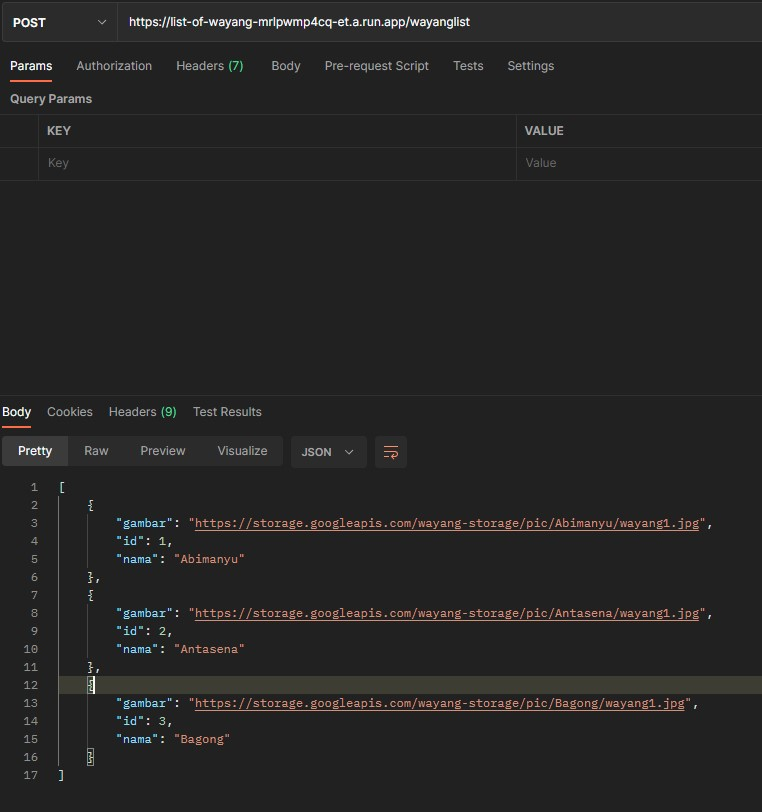
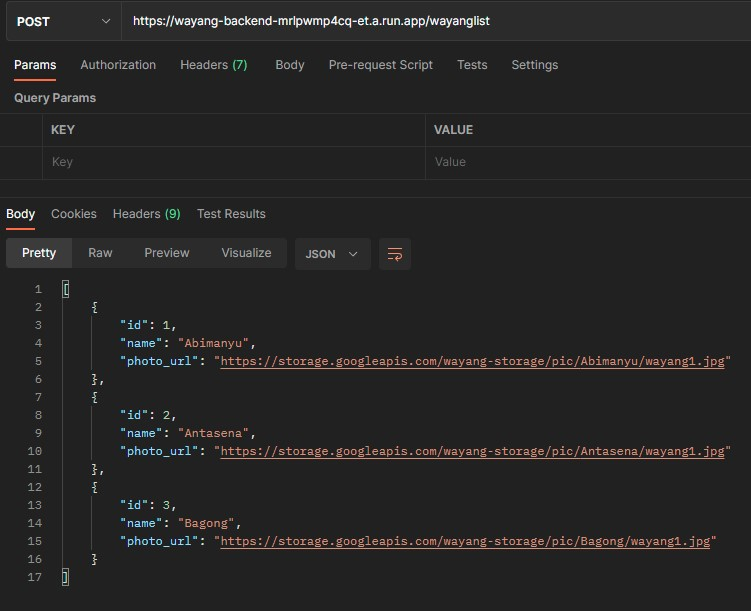
updating APi documentation 40%

diff --git a/README.md b/README.md
@@ -41,19 +41,19 @@ Backend or Something that reeks of cloud computing
     ```json
     [
         {
-            "gambar": "https://storage.googleapis.com/wayang-storage/pic/Abimanyu/wayang1.jpg",
             "id": 1,
-            "nama": "Abimanyu"
+            "name": "Abimanyu",
+            "photo_url": "https://storage.googleapis.com/wayang-storage/pic/Abimanyu/wayang1.jpg"
         },
         {
-            "gambar": "https://storage.googleapis.com/wayang-storage/pic/Antasena/wayang1.jpg",
             "id": 2,
-            "nama": "Antasena"
+            "name": "Antasena",
+            "photo_url": "https://storage.googleapis.com/wayang-storage/pic/Antasena/wayang1.jpg"
         },
         {
-            "gambar": "https://storage.googleapis.com/wayang-storage/pic/Bagong/wayang1.jpg",
             "id": 3,
-            "nama": "Bagong"
+            "name": "Bagong",
+            "photo_url": "https://storage.googleapis.com/wayang-storage/pic/Bagong/wayang1.jpg"
         }
     ]
     ```
@@ -70,17 +70,58 @@ Backend or Something that reeks of cloud computing
     > 200 OK
     ```json
     {
-        "detail": "Anantasena, atau sering disingkat Antasena adalah nama salah satu tokoh pewayangan Jawa. Tokoh ini merupakan ciptaan para pujangga Jawa yang disisipkan ke dalam kisah Mahabharata, suatu wiracarita kuno karya Krishna Dwaipayana Byasa dari India, yang sering diadaptasi menjadi cerita pewayangan. Nama Anantasena maupun Antasena tidak ditemukan dalam naskah asli Mahabharata berbahasa Sanskerta (diterjemahkan oleh Kisari Mohan Ganguli). Dalam pewayangan, tokoh ini dikenal sebagai putra bungsu Bimasena, serta saudara lain ibu dari Antareja dan Gatotkaca. Dalam pewayangan klasik versi Surakarta, Antasena merupakan nama lain dari Antareja, yaitu putra sulung Bimasena. Sementara menurut versi Yogyakarta, Antasena dan Antareja adalah dua orang tokoh yang berbeda. Akan tetapi dalam pewayangan zaman sekarang, para dalang Surakarta sudah biasa memisahkan tokoh Antasena dengan Antareja, sebagaimana yang dilakukan oleh para dalang Yogyakarta.",
-        "gambar": [
+        "description": "Anantasena, atau sering disingkat Antasena adalah nama salah satu tokoh pewayangan Jawa. Tokoh ini merupakan ciptaan para pujangga Jawa yang disisipkan ke dalam kisah Mahabharata, suatu wiracarita kuno karya Krishna Dwaipayana Byasa dari India, yang sering diadaptasi menjadi cerita pewayangan. Nama Anantasena maupun Antasena tidak ditemukan dalam naskah asli Mahabharata berbahasa Sanskerta (diterjemahkan oleh Kisari Mohan Ganguli). Dalam pewayangan, tokoh ini dikenal sebagai putra bungsu Bimasena, serta saudara lain ibu dari Antareja dan Gatotkaca. Dalam pewayangan klasik versi Surakarta, Antasena merupakan nama lain dari Antareja, yaitu putra sulung Bimasena. Sementara menurut versi Yogyakarta, Antasena dan Antareja adalah dua orang tokoh yang berbeda. Akan tetapi dalam pewayangan zaman sekarang, para dalang Surakarta sudah biasa memisahkan tokoh Antasena dengan Antareja, sebagaimana yang dilakukan oleh para dalang Yogyakarta.",
+        "id": 2,
+        "name": "Antasena",
+        "photo_url": [
             "https://storage.googleapis.com/wayang-storage/pic/Antasena/wayang1.jpg",
             "https://storage.googleapis.com/wayang-storage/pic/Antasena/wayang2.jpg",
             "https://storage.googleapis.com/wayang-storage/pic/Antasena/wayang3.jpg",
             "https://storage.googleapis.com/wayang-storage/pic/Antasena/wayang4.jpg"
-        ],
-        "id": 2,
-        "nama": "Antasena"
+        ]
     }
     ```
 ![](Images/wayangdetails.jpg)
 
+### List all of Video:
+* URL
+    - /videolist
+* Method
+    - POST
+* Request Body
+    * -
+* Response
+    > 200 OK
+    ```json
+    [
+        {
+            "id": 1,
+            "name": "Wayang kulit nasehat Semar kepada anak cucunya",
+            "video_url": "https://storage.googleapis.com/wayang-storage/vid/video1.mp4"
+        },
+        {
+            "id": 2,
+            "name": "Pitutur Semar tentang Kehidupan ",
+            "video_url": "https://storage.googleapis.com/wayang-storage/vid/video2.mp4"
+        }
+    ]
+    ```
+![](Images/listallvideo.jpg)
 
+### Details of Video:
+* URL
+    - /video
+* Method
+    - POST
+* Request Body
+    * `field_id` as integer, must be valid id
+* Response
+    > 200 OK
+    ```json
+    {
+        "id": 2,
+        "name": "Pitutur Semar tentang Kehidupan ",
+        "video_url": "https://storage.googleapis.com/wayang-storage/vid/video2.mp4"
+    }
+    ```
+![](Images/videodetails.jpg)
